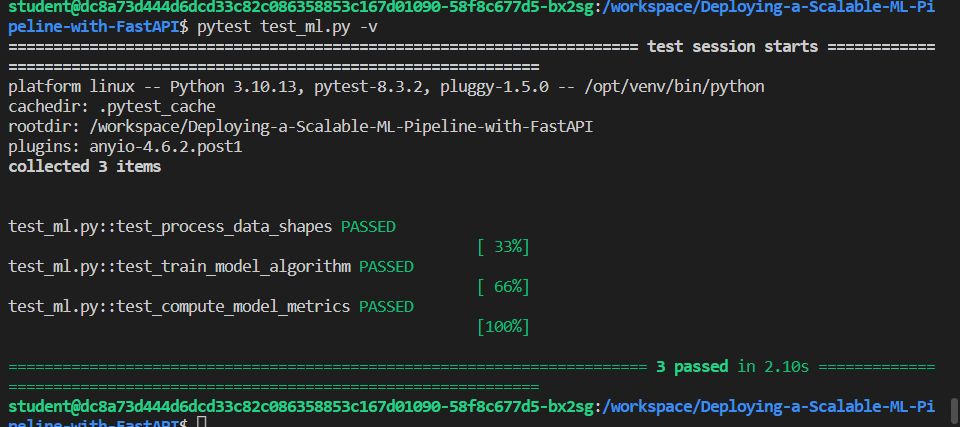
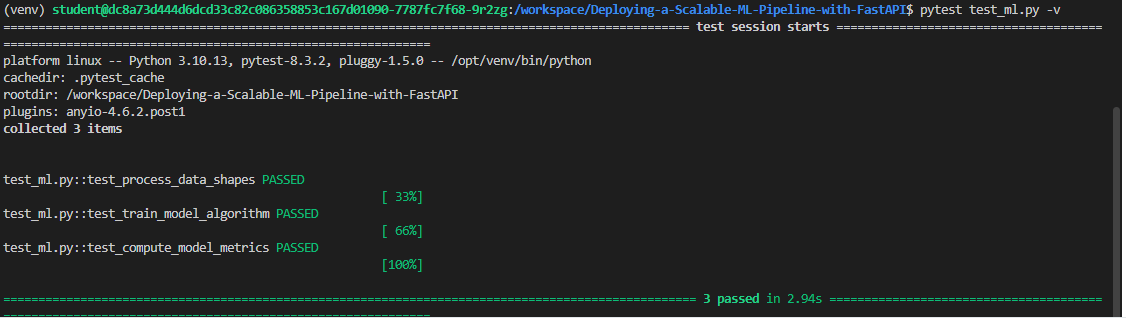
Fix: assert exact numerical metrics in test_ml.py using pytest.approx

diff --git a/test_ml.py b/test_ml.py
@@ -74,7 +74,7 @@ def test_train_model_algorithm():
 
 
 def test_compute_model_metrics():
-    """Test compute_model_metrics outputs bounded floats within [0, 1]."""
+    """Test compute_model_metrics outputs exact expected numerical values."""
     y_true = np.array([0, 1, 1, 0, 1])
     y_pred = np.array([0, 1, 0, 0, 1])
 
@@ -83,6 +83,8 @@ def test_compute_model_metrics():
     assert isinstance(precision, float)
     assert isinstance(recall, float)
     assert isinstance(fbeta, float)
-    assert 0.0 <= precision <= 1.0
-    assert 0.0 <= recall <= 1.0
-    assert 0.0 <= fbeta <= 1.0
+
+    # 2 TP, 0 FP, 1 FN -> Precision: 1.0, Recall: 2/3, F1: 0.8
+    assert precision == pytest.approx(1.0)
+    assert recall == pytest.approx(2 / 3)
+    assert fbeta == pytest.approx(0.8)
